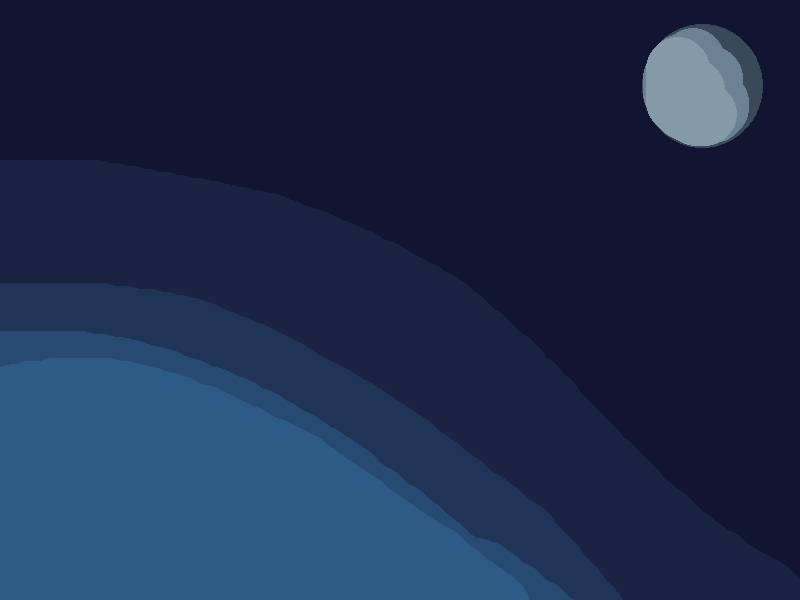
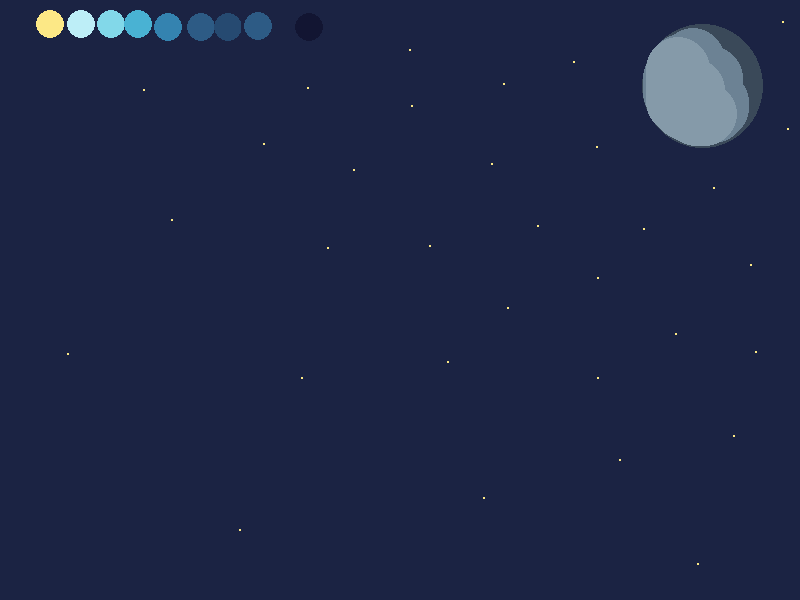
background

Changed region(s): [[0.0, 0.54, 0.7188, 1.0], [0.0312, 0.0, 0.3438, 0.09]]

diff --git a/src/ld50/Ld50Game.js b/src/ld50/Ld50Game.js
@@ -1,5 +1,7 @@
 import Game from "../engine/game.js";
 import Player from "./Player.js";
+import Sunrise from "./Sunrise.js";
+import Scroller from "./Scroller.js";
 import ResourceLoader from "../engine/resourceLoader.js";
 import {load, play} from "../engine/sound_test/soundTest.js";
 import Collider from "./Collider.js";
@@ -21,9 +23,9 @@ export class Ld50Game extends Game {
     this.state = "PLAYING";
     this.score = 0;
 
-    this.initLevel();
-
     this.resources = {};
+
+    this.initLevel();
   }
 
   loadAssets = () => {
@@ -39,6 +41,9 @@ export class Ld50Game extends Game {
     // environment
     this.loadImage("res/tree_1.png");
     this.loadImage("res/backdrop.png");
+    this.loadImage("res/backdrop_1.png");
+    this.loadImage("res/backdrop_2.png");
+    this.loadImage("res/backdrop_3.png");
 
     // sounds
     load("res/Hibou.ogg");
@@ -56,6 +61,10 @@ export class Ld50Game extends Game {
 
   initLevel = () => {
     this.player = new Player(100, 100);
+    this.sunrise = new Sunrise();
+    this.scroller1 = new Scroller(0.25);
+    this.scroller2 = new Scroller(0.5);
+    this.scroller3 = new Scroller(1);
     this.state = "PLAYING";
 
     this.colliders = [];
@@ -69,6 +78,10 @@ export class Ld50Game extends Game {
   
   update = (delta) => { // delta in ms
       this.player.update(delta, this.inputHandler, this.colliders);
+      this.sunrise.update(delta);
+      this.scroller1.update(this.player);
+      this.scroller2.update(this.player);
+      this.scroller3.update(this.player);
   }
 
   draw = (scene) => {
@@ -78,6 +91,10 @@ export class Ld50Game extends Game {
         0,
         0
       );
+      this.sunrise.draw(scene);
+      this.scroller1.draw(scene, this.resources["res/backdrop_1.png"]);
+      this.scroller2.draw(scene, this.resources["res/backdrop_2.png"]);
+      this.scroller3.draw(scene, this.resources["res/backdrop_3.png"]);
 
       scene.setCenterPosition(Math.round(this.player.position[0]), 300);
       for (const entity of this.entities) {

diff --git a/src/ld50/Sunrise.js b/src/ld50/Sunrise.js
@@ -1,0 +1,42 @@
+export default class Sunrise {
+    constructor() {
+        this.risingSince = 0;
+        this.risingDuration = 20_000;
+
+        this._startHeight = 600;
+        this._endHeight = 300;
+    }
+
+    update = (delta) => {
+        this.risingSince += delta;
+        if (this.risingSince > this.risingDuration) {
+            this.risingSince = this.risingDuration;
+            // TODO loose
+        }
+    }
+
+    draw = (scene) => {
+        const percentage = this.risingSince / this.risingDuration;
+        const sunHeight = this._startHeight + (this._endHeight - this._startHeight) * percentage
+        
+        scene.ctx.beginPath();
+        scene.ctx.fillStyle = "#2d5b85";
+        scene.ctx.arc(100, sunHeight, 450, 0, 2 * Math.PI);
+        scene.ctx.fill();
+
+        scene.ctx.beginPath();
+        scene.ctx.fillStyle = "#49b2d3";
+        scene.ctx.arc(100, sunHeight, 200, 0, 2 * Math.PI);
+        scene.ctx.fill();
+
+        scene.ctx.beginPath();
+        scene.ctx.fillStyle = "#bdeef7";
+        scene.ctx.arc(100, sunHeight, 100, 0, 2 * Math.PI);
+        scene.ctx.fill();
+
+        scene.ctx.beginPath();
+        scene.ctx.fillStyle = "#fce886";
+        scene.ctx.arc(100, sunHeight, 60, 0, 2 * Math.PI);
+        scene.ctx.fill();
+    }
+}

diff --git a/src/ld50/Scroller.js b/src/ld50/Scroller.js
@@ -1,0 +1,15 @@
+export default class Scroller {
+    constructor(speed) {
+        this.speed = speed;
+        this.offset = 0;
+    }
+
+    update = (player) => {
+        this.offset = (-player.position[0] * this.speed) % 800;
+    }
+
+    draw = (scene, resource) => {
+        scene.ctx.drawImage(resource.value, this.offset, 0);
+        scene.ctx.drawImage(resource.value, this.offset + 800, 0);
+    }
+}

diff --git a/src/engine/scene.js b/src/engine/scene.js
@@ -46,7 +46,6 @@ class Scene {
 
   drawImage = (imageResource, x, y, w, h, x2, y2, w2, h2) => {
     // rounding for pixel perfect
-    console.log('IMAGE', imageResource);
     if (imageResource.status === 'LOADED') {
       if (x2 !== undefined) {
         this.ctx.drawImage(imageResource.value, x, y, w, h, Math.round(x2), Math.round(y2), w2, h2);
